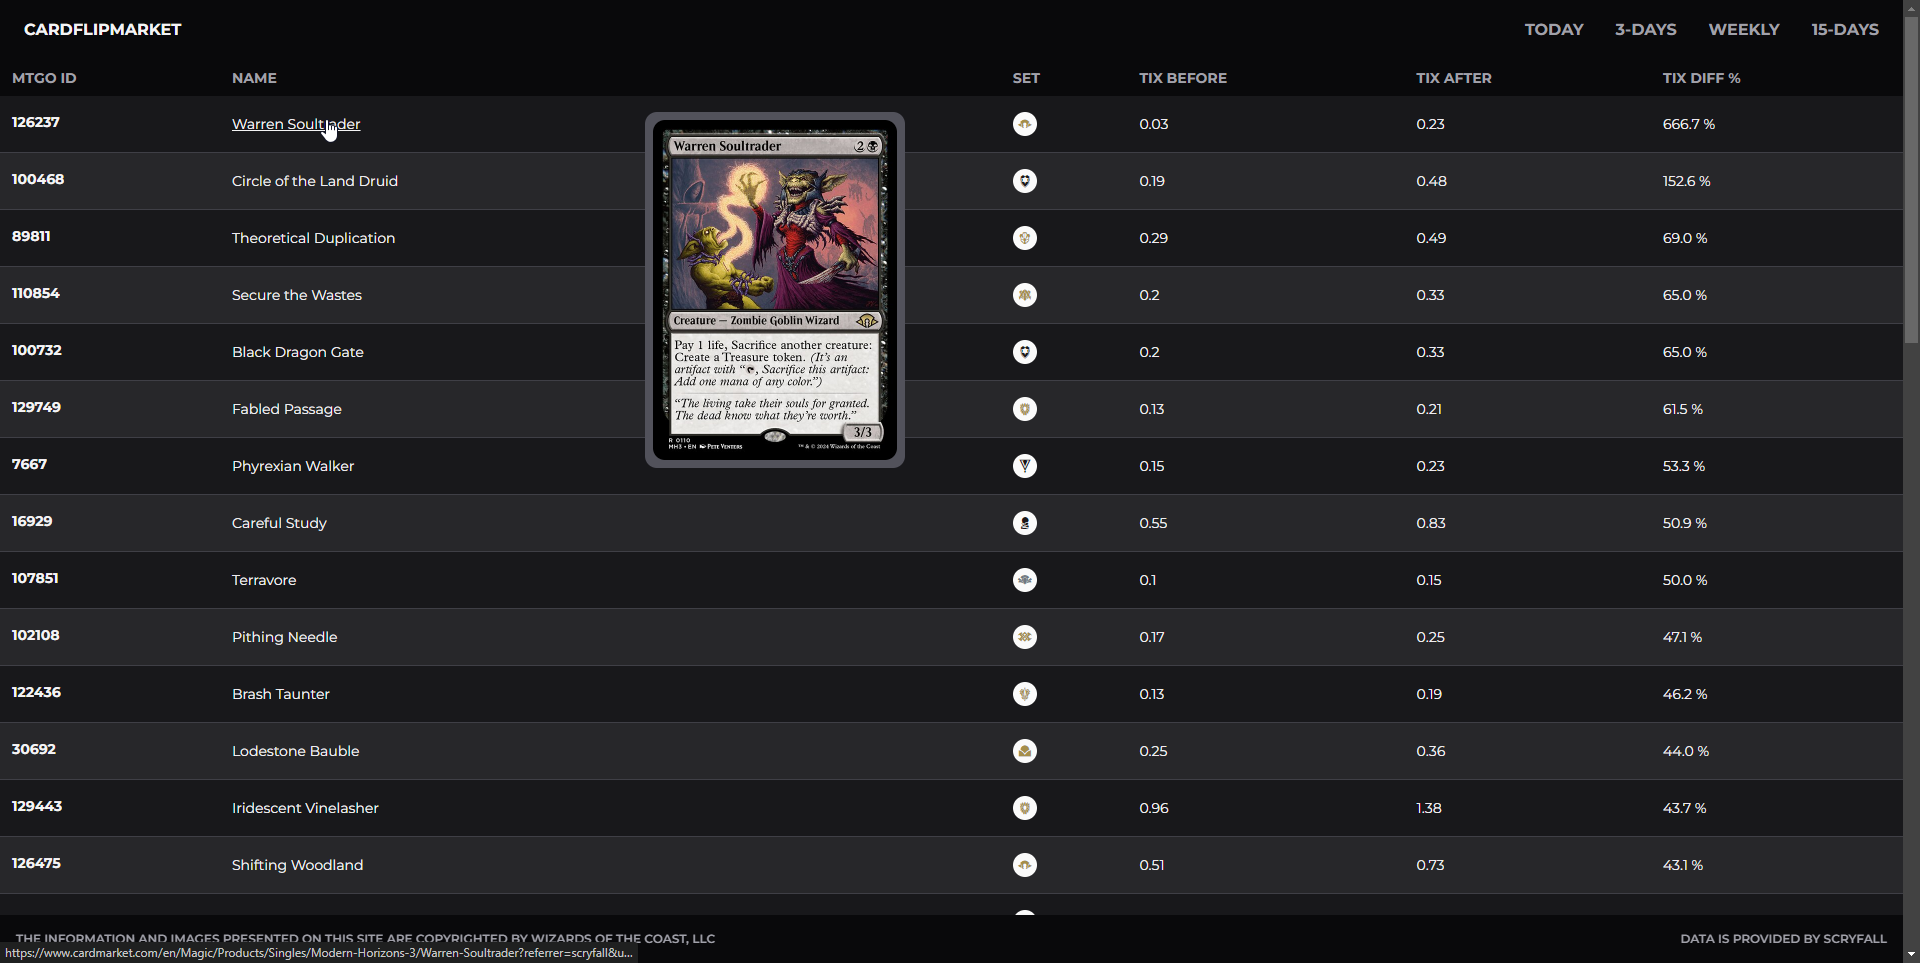
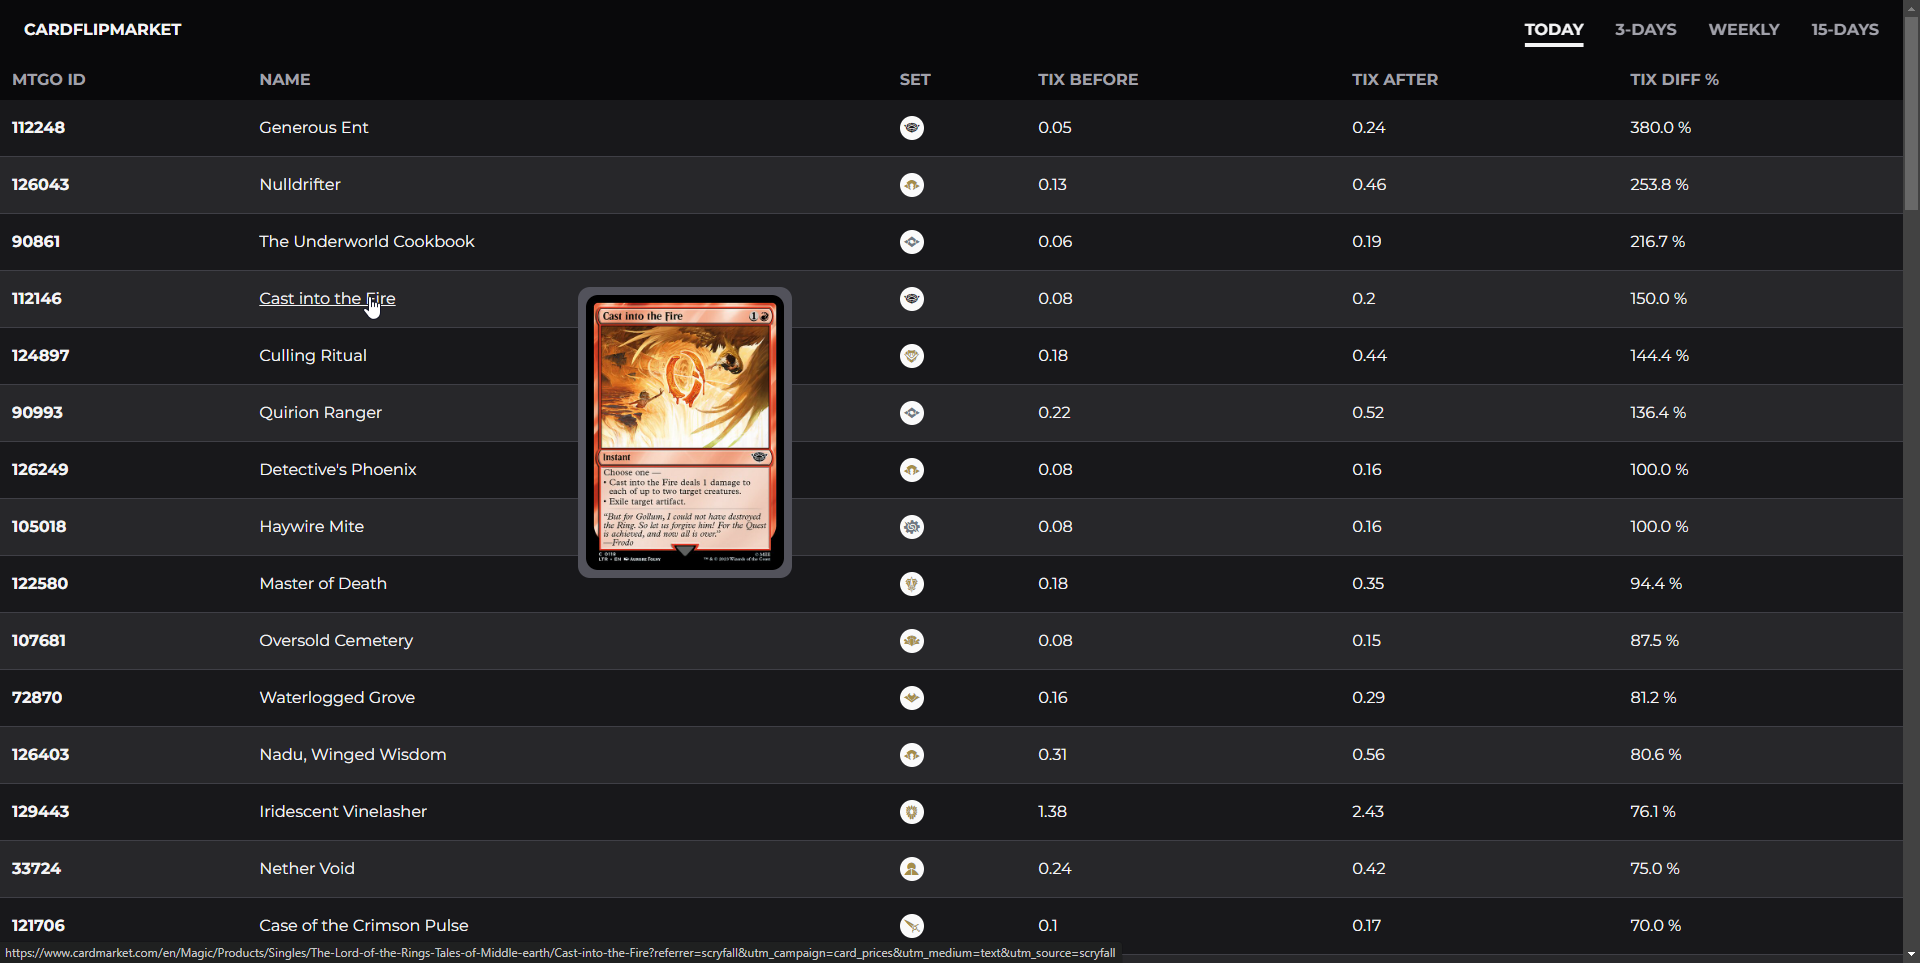
various ui fixes

diff --git a/client/src/components/Header.js b/client/src/components/Header.js
@@ -1,42 +1,51 @@
-import React from 'react';
+import React, { useState } from 'react';
 
 function Header({ onFetchData }) {
+  const [activeButton, setActiveButton] = useState('today');
+
+  const handleButtonClick = (period) => {
+    onFetchData(period);
+    setActiveButton(period);
+  };
+
   return (
     <header className='sticky top-0 z-10 lg:text-base text-sm'>
-      <nav className="border-zinc-200 px-4 lg:px-6 py-2.5 bg-zinc-950  text-zinc-300">
-        <div className="flex lg:flex-row flex-col flex-wrap justify-between items-center">
-          <div className='lg:block'>
-            <a href='/#' className='font-bold text-zinc-100 uppercase cursor-pointer' rel='noreferrer'>CardFlipMarket</a>
+      <nav className="border-zinc-200 px-4 lg:px-6 py-2.5 bg-zinc-950 text-zinc-300">
+        <div className="flex lg:flex-row flex-col flex-wrap justify-between items-center" >
+          <div className='flex lg:flex-row lg:space-x-8 my-2 text-base font-bold'>
+            <a href='/#' 
+            className='font-bold text-zinc-100 uppercase cursor-pointer' 
+            rel='noreferrer'>CardFlipMarket</a>
           </div>
-          <ul className="flex lg:flex-row lg:space-x-8 my-2 font-bold">
+          <ul className="flex lg:flex-row lg:space-x-8 my-2 font-bold animate-slideIn opacity-0" style={{ "--delay": 0.2 + "s" }}>
             <li>
               <button
-                className="block py-2 pr-4 pl-3 lg:border-0 lg:p-0 text-zinc-400  hover:text-zinc-100 border-zinc-700 uppercase"
-                onClick={() => onFetchData('today')}
+                className={`${activeButton === 'today' ? 'text-zinc-100 underline decoration-4' : 'text-zinc-400'} block py-2 pr-4 pl-3 lg:border-0 lg:p-0 hover:text-zinc-100 hover:underline hover:decoration-4 border-zinc-700 underline-offset-8 uppercase`}
+                onClick={() => handleButtonClick('today')}
               >
                 Today
               </button>
             </li>
             <li>
               <button
-                className="block py-2 pr-4 pl-3 lg:border-0 lg:p-0 text-zinc-400  hover:text-zinc-100  border-zinc-700 uppercase"
-                onClick={() => onFetchData('3-days')}
+                className={`${activeButton === '3-days' ? 'text-zinc-100 underline decoration-4' : 'text-zinc-400'} block py-2 pr-4 pl-3 lg:border-0 lg:p-0 hover:text-zinc-100 border-zinc-700 hover:underline hover:decoration-4 underline-offset-8 uppercase`}
+                onClick={() => handleButtonClick('3-days')}
               >
                 3-Days
               </button>
             </li>
             <li>
               <button
-                className="block py-2 pr-4 pl-3 lg:border-0 lg:p-0 text-zinc-400  hover:text-zinc-100 border-zinc-700 uppercase"
-                onClick={() => onFetchData('weekly')}
+                className={`${activeButton === 'weekly' ? 'text-zinc-100 underline decoration-4' : 'text-zinc-400'} block py-2 pr-4 pl-3 lg:border-0 lg:p-0 hover:text-zinc-100 border-zinc-700 hover:underline hover:decoration-4 underline-offset-8 uppercase`}
+                onClick={() => handleButtonClick('weekly')}
               >
                 Weekly
               </button>
             </li>
             <li>
               <button
-                className="block py-2 pr-4 pl-3 lg:border-0 lg:p-0 text-zinc-400  hover:text-zinc-100 border-zinc-700 uppercase"
-                onClick={() => onFetchData('15-days')}
+                className={`${activeButton === '15-days' ? 'text-zinc-100 underline decoration-4' : 'text-zinc-400'} block py-2 pr-4 pl-3 lg:border-0 lg:p-0 hover:text-zinc-100 border-zinc-700 hover:underline hover:decoration-4 underline-offset-8 uppercase`}
+                onClick={() => handleButtonClick('15-days')}
               >
                 15-Days
               </button>

diff --git a/client/src/App.js b/client/src/App.js
@@ -6,27 +6,40 @@ import axios from 'axios';
 
 function App() {
   const [data, setData] = useState([]);
+  const [loading, setLoading] = useState(true);  // Add loading state
 
   const fetchData = (timeRange) => {
+    setLoading(true); // Set loading to true before making the request
     axios.get(`/api/scryfall?range=${timeRange}`)
-          .then((response) => {
-              setData(response.data);
-          })
-          .catch((error) => {
-              console.error('Error fetching data:', error);
-          });
+      .then((response) => {
+        setData(response.data);
+      })
+      .catch((error) => {
+        console.error('Error fetching data:', error);
+      })
+      .finally(() => {
+        setLoading(false); // Set loading to false once the request is completed
+      });
   };
 
   useEffect(() => {
-      fetchData('today');
+    fetchData('today');
   }, []);
 
   return (
-    <div className='bg-zinc-900 flex flex-col min-h-screen'>
-          <Header onFetchData={fetchData} />
+    <div className='overflow-x-hidden bg-zinc-900 flex flex-col min-h-screen'>
+      <Header onFetchData={fetchData} />
+      {loading ? (
+        <div className='text-zinc-100 flex justify-center lg:text-base text-sm mt-10'>Loading...</div>  // Loading state indicator
+      ) : (
+        data.length > 0 ? (
           <Table data={data} />
-          <Footer/>
-      </div>
+        ) : (
+          <div className='text-zinc-100 flex justify-center items-center mt-10 lg:text-base text-sm'><p>Price spikes not found for the chosen time range.</p></div>
+        )
+      )}
+      <Footer />
+    </div>
   );
 }
 

diff --git a/client/src/components/ChartPopover.js b/client/src/components/ChartPopover.js
@@ -37,19 +37,19 @@ function ChartPopover({ mtgo_id, onClose }) {
             x: {
                 display: true,
                 ticks: {
-                    color: 'rgb(255 251 235)',
+                    color: 'rgb(244 244 245)',
                 },
                 grid: {
-                    color: 'rgb(254 243 199)',
+                    color: 'rgb(212 212 216)',
                 },
             },
             y: {
                 display: true,
                 ticks: {
-                    color: 'rgb(255 251 235)',
+                    color: 'rgb(244 244 245)',
                 },
                 grid: {
-                    color: 'rgb(254 243 199)',
+                    color: 'rgb(212 212 216)',
                 },
             },
         },
@@ -62,7 +62,7 @@ function ChartPopover({ mtgo_id, onClose }) {
 
     return (
         <div className="fixed inset-0 flex items-center justify-center">
-            <div className="relative bg-zinc-800 border border-zinc-600 rounded-xl md:w-1/2 w-fit p-8 text-zinc-400">
+            <div className="relative bg-zinc-800 border border-zinc-600 rounded-xl md:w-1/2 w-fit p-8 text-zinc-100">
             <div className='flex mb-4 font-medium justify-between'>
                 <p>Price History</p>
                 <button onClick={onClose}><IoClose size={25} /></button></div>

diff --git a/client/src/components/Table.js b/client/src/components/Table.js
@@ -31,7 +31,7 @@ function Table({ data }) {
 
     return (
         <div className="relative overflow-x-auto">
-            <table className="text-xs lg:text-sm w-full text-left rtl:text-right text-zinc-200 md:mb-80 sm:mb-36">
+            <table className="text-xs lg:text-base w-full text-left rtl:text-right text-zinc-200 md:mb-80 sm:mb-36">
                 <thead className="text-zinc-400 text-md uppercase cursor-pointer bg-zinc-950">
                     <tr>
                         <th scope="col" className="lg:block hidden px-3 py-2 hover:text-zinc-100" onClick={() => handleSort('mtgo_id')}>

diff --git a/client/tailwind.config.js b/client/tailwind.config.js
@@ -4,7 +4,23 @@ module.exports = {
     "./src/**/*.{js,jsx,ts,tsx}",
   ],
   theme: {
-    extend: {},
+    extend: {
+      animation: {
+        "slideIn": "slideIn 1s ease-in-out forwards var(--delay, 0)"
+      },
+      keyframes: {
+        slideIn: {
+          "0%": {
+            opacity: 0,
+            transform: "translate3d(100%, 0, 0)",
+          },
+          "100%": {
+            opacity: 1,
+            transform: "translate3d(0, 0, 0)",
+          },
+        },
+      }
+    },
   },
   plugins: [],
 }
